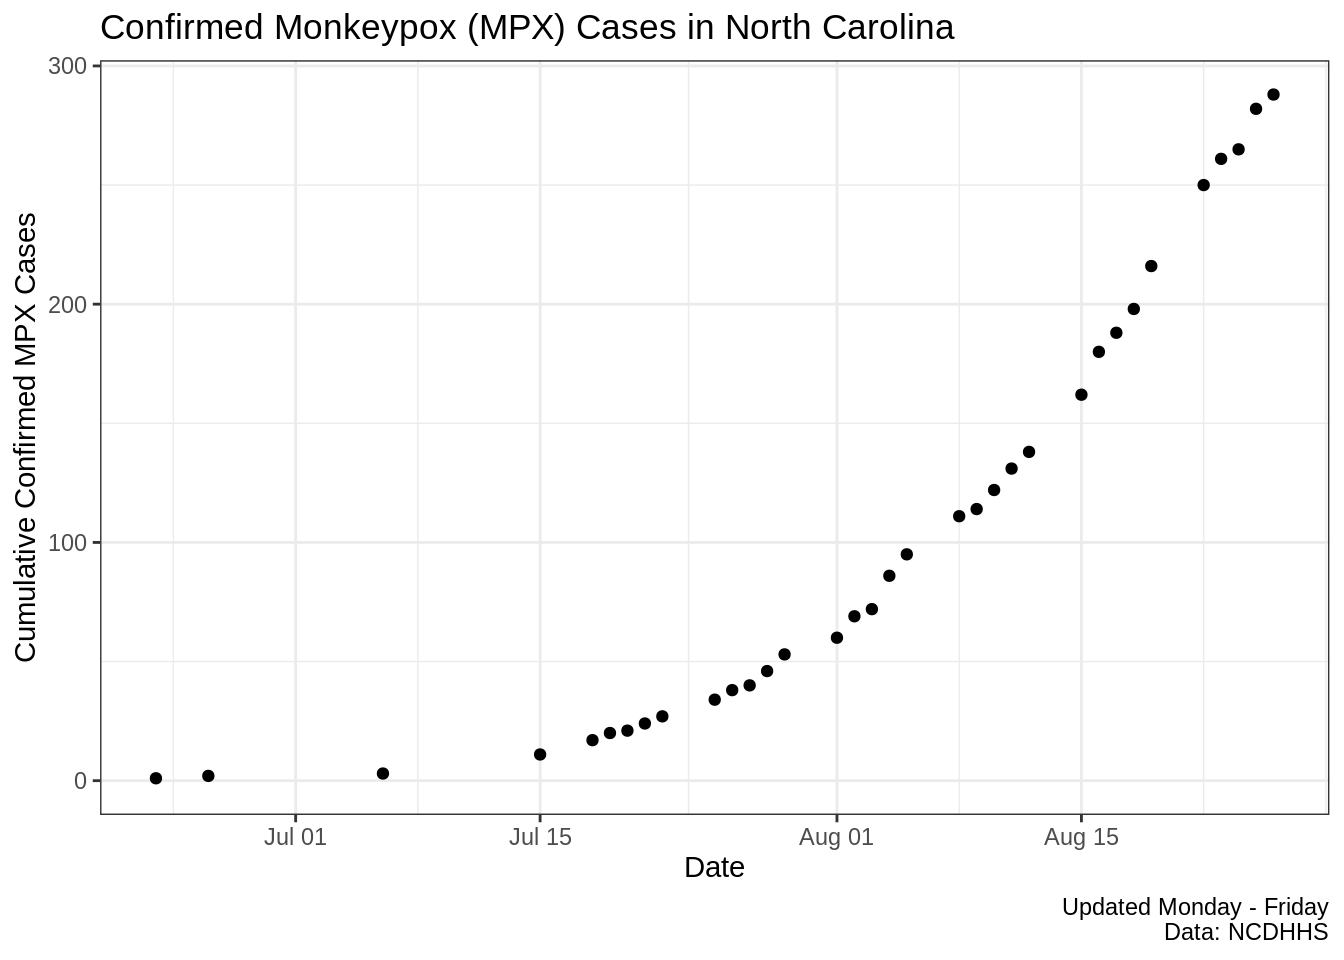
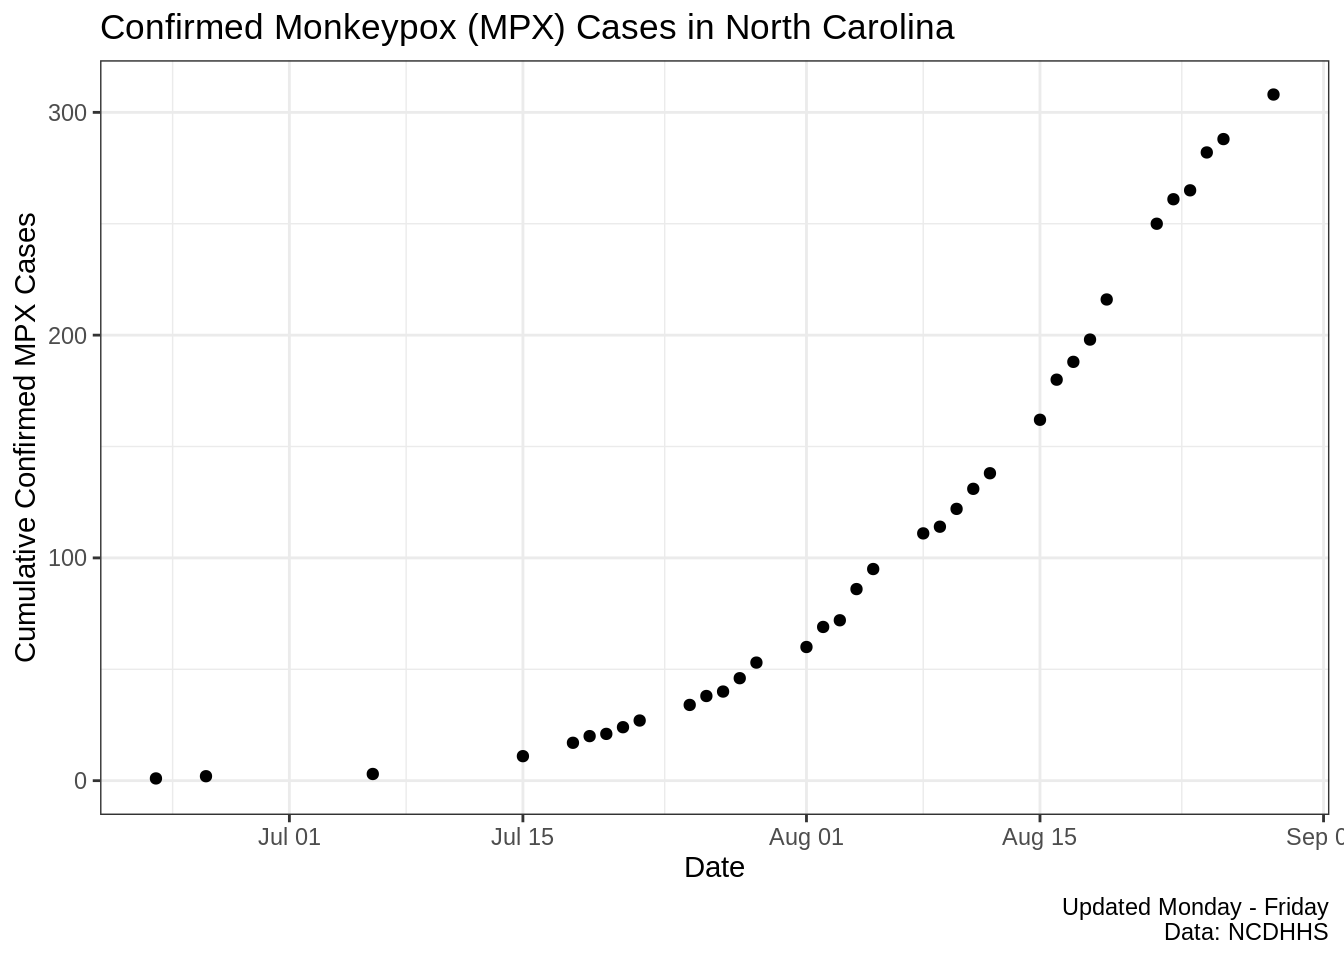
Update the latest data

diff --git a/docs/index.html b/docs/index.html
@@ -2,7 +2,7 @@
 <html xmlns="http://www.w3.org/1999/xhtml" lang="en" xml:lang="en"><head>
 
 <meta charset="utf-8">
-<meta name="generator" content="quarto-1.1.141">
+<meta name="generator" content="quarto-1.1.149">
 
 <meta name="viewport" content="width=device-width, initial-scale=1.0, user-scalable=yes">
 
@@ -139,7 +139,7 @@ ul.task-list li input[type="checkbox"] {
 <div class="cell">
 
 </div>
-<p>These data are current as of 26 August, 2022. Current case incidence suggests a doubling time of 10.2 (95% CI, 9.7-10.7) days.</p>
+<p>These data are current as of 29 August, 2022. Current case incidence suggests a doubling time of 10.6 (95% CI, 10-11.2) days.</p>
 <div class="cell">
 <div class="cell-output-display">
 <p><img src="index_files/figure-html/unnamed-chunk-2-1.png" class="img-fluid" width="672"></p>

diff --git a/docs/README.html b/docs/README.html
@@ -2,7 +2,7 @@
 <html xmlns="http://www.w3.org/1999/xhtml" lang="en" xml:lang="en"><head>
 
 <meta charset="utf-8">
-<meta name="generator" content="quarto-1.1.141">
+<meta name="generator" content="quarto-1.1.149">
 
 <meta name="viewport" content="width=device-width, initial-scale=1.0, user-scalable=yes">
 

diff --git a/docs/disclaimer.html b/docs/disclaimer.html
@@ -2,7 +2,7 @@
 <html xmlns="http://www.w3.org/1999/xhtml" lang="en" xml:lang="en"><head>
 
 <meta charset="utf-8">
-<meta name="generator" content="quarto-1.1.141">
+<meta name="generator" content="quarto-1.1.149">
 
 <meta name="viewport" content="width=device-width, initial-scale=1.0, user-scalable=yes">
 

diff --git a/docs/us.html b/docs/us.html
@@ -2,7 +2,7 @@
 <html xmlns="http://www.w3.org/1999/xhtml" lang="en" xml:lang="en"><head>
 
 <meta charset="utf-8">
-<meta name="generator" content="quarto-1.1.141">
+<meta name="generator" content="quarto-1.1.149">
 
 <meta name="viewport" content="width=device-width, initial-scale=1.0, user-scalable=yes">
 

diff --git a/docs/vaccines.html b/docs/vaccines.html
@@ -2,7 +2,7 @@
 <html xmlns="http://www.w3.org/1999/xhtml" lang="en" xml:lang="en"><head>
 
 <meta charset="utf-8">
-<meta name="generator" content="quarto-1.1.141">
+<meta name="generator" content="quarto-1.1.149">
 
 <meta name="viewport" content="width=device-width, initial-scale=1.0, user-scalable=yes">
 
